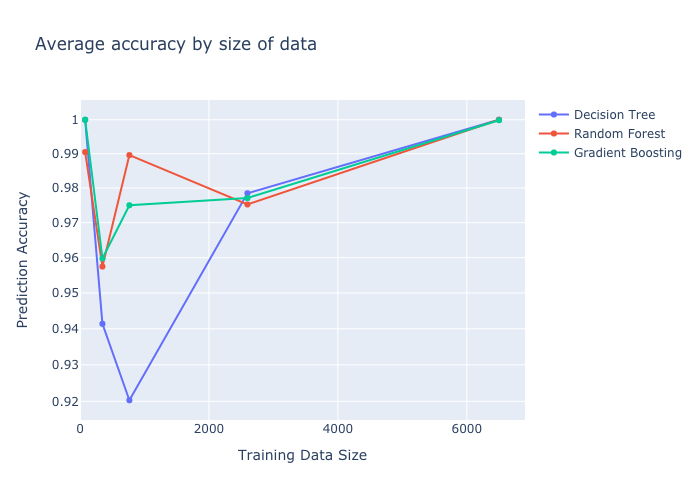
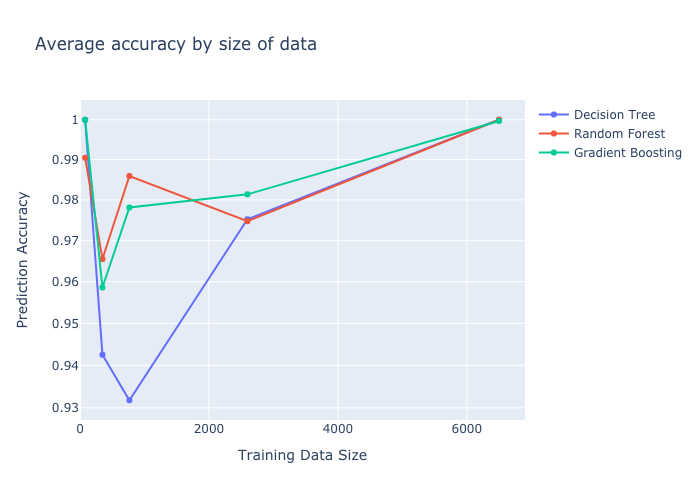
various improvements

diff --git a/source/learning/learning.py b/source/learning/learning.py
@@ -4,7 +4,7 @@ import time
 
 
 class Learning(ABC):
-    def __init__(self, data_set: file_manager.DataSet, b=False, **kwargs):
+    def __init__(self, data_set: file_manager.DataSet, b=False, percent=0.5, **kwargs):
         self.data_set = data_set
         self.b = b
         self.t = None
@@ -17,6 +17,7 @@ class Learning(ABC):
         self.size = 0
         self.FILE = "DEFAULT"
         self.NAME = "DEFAULT"
+        self.percent = percent
 
     @abstractmethod
     def build(self):
@@ -48,7 +49,7 @@ class Learning(ABC):
         print("Build time on " + self.data_set.file + " on " + str(self.n_builds) + " builds: " +
               str(self.avg_time) + "s")
         if not self.done:
-            file_manager.write_to_db(self.FILE, self.data_set.file,
+            file_manager.write_to_db(self.FILE, self.data_set.file + " " + str(self.percent),
                                      {"time": self.avg_time, "acc": self.avg_acc,
                                       "train_size": self.size,
                                       "test_size": len(self.data_set.data) - self.size})
@@ -56,7 +57,7 @@ class Learning(ABC):
     @abstractmethod
     def read_from_file(self):
         if not self.done:
-            data = file_manager.read_from_db(self.FILE, self.data_set.file)
+            data = file_manager.read_from_db(self.FILE, self.data_set.file + " " + str(self.percent))
             if data:
                 self.avg_acc = data["acc"]
                 self.avg_time = data["time"]

diff --git a/source/graphing/grapher.py b/source/graphing/grapher.py
@@ -1,5 +1,5 @@
 import plotly.graph_objects as go
-from source.utils import learning_manager
+from source.utils import learning_manager, file_manager
 
 
 def plot(algos):
@@ -43,3 +43,26 @@ def plot(algos):
 
 def plot_all():
     plot(learning_manager.algo_names.keys())
+
+
+def table(algos):
+    print("\\begin{tabular}{ll|" + ("l" * len(algos)) + "}")
+    s = "dataset & size"
+    for algo in algos:
+        s += " & " + algo
+    s += "\\\\"
+    print(s)
+    print("\\hline")
+    files = sorted(file_manager.data_sets, key=lambda a: learning_manager.discriminants[algos[0]][a].size)
+    for file in files:
+        s = file.split("/")[-1].split(".")[0] + " & " + str(learning_manager.discriminants[algos[0]][file].size)
+        for algo in algos:
+            discriminant = learning_manager.discriminants[algo][file]
+            s += " & {0:.2f}\\%".format(round(discriminant.avg_acc * 100, 2))
+        s += "\\\\"
+        print(s)
+    print("\\end{tabular}")
+
+
+def table_all():
+    table(learning_manager.algo_names.keys())

diff --git a/source/core/run.py b/source/core/run.py
@@ -24,6 +24,11 @@ def main(args):
     if args.graph and args.method:
         grapher.plot(args.method)
 
+    if args.create_table and args.all:
+        grapher.table_all()
+
+    if args.create_table and args.method:
+        grapher.table(args.method)
 
 if __name__ == "__main__":
     parser = ap.ArgumentParser()
@@ -31,6 +36,7 @@ if __name__ == "__main__":
     parser.add_argument('-i', '--input', nargs="+", required=True)
     parser.add_argument('-g', '--graph', action="store_true")
     parser.add_argument('-f', '--force-rebuild', action="store_true")
+    parser.add_argument('-t', '--create-table', action="store_true")
     parser.add_argument('-s', '--split', nargs="?", const=0.5, type=float)
 
     command_group = parser.add_mutually_exclusive_group()

diff --git a/source/learning/decision_tree.py b/source/learning/decision_tree.py
@@ -7,8 +7,8 @@ FILE = "decision_tree"
 
 
 class DecisionTree(learning.Learning):
-    def __init__(self, data_set: file_manager.DataSet, b=False, **kwargs):
-        super().__init__(data_set, b=b, **kwargs)
+    def __init__(self, data_set: file_manager.DataSet, percent=0.5, b=False, **kwargs):
+        super().__init__(data_set, percent=percent, b=b)
         self.t = tree.DecisionTreeClassifier(**kwargs)
         self.FILE = FILE
         self.NAME = NAME

diff --git a/source/learning/gradient_boosting.py b/source/learning/gradient_boosting.py
@@ -7,8 +7,8 @@ FILE = "gradient_boosting"
 
 
 class GradientBoosting(learning.Learning):
-    def __init__(self, data_set: file_manager.DataSet, b=False, **kwargs):
-        super().__init__(data_set, b=b)
+    def __init__(self, data_set: file_manager.DataSet, percent=0.5, b=False, **kwargs):
+        super().__init__(data_set, percent=percent, b=b)
         self.t = GradientBoostingClassifier(**kwargs)
         self.FILE = FILE
         self.NAME = NAME

diff --git a/source/learning/random_forest.py b/source/learning/random_forest.py
@@ -7,8 +7,8 @@ FILE = "random_forest"
 
 
 class RandomForest(learning.Learning):
-    def __init__(self, data_set: file_manager.DataSet, b=False, **kwargs):
-        super().__init__(data_set, b=b)
+    def __init__(self, data_set: file_manager.DataSet, percent=0.5, b=False, **kwargs):
+        super().__init__(data_set, percent=percent, b=b)
         self.t = RandomForestClassifier(**kwargs)
         self.FILE = FILE
         self.NAME = NAME

diff --git a/source/utils/learning_manager.py b/source/utils/learning_manager.py
@@ -27,7 +27,7 @@ def build_algorithms(algos, b=False, percent=0.5):
     for data_set in file_manager.data_sets.values():
         print(data_set.file)
         for algo in algos:
-            d = algo_names[algo](data_set, b=b, **(kwargs[algo]))
+            d = algo_names[algo](data_set, b=b, percent=percent, **(kwargs[algo]))
             discriminants[algo][data_set.file] = d
             if not b:
                 d.read_from_file()

diff --git a/source/learning/cp_tree.py b/source/learning/cp_tree.py
@@ -3,8 +3,8 @@ from source.learning import learning
 
 
 class CPTree(learning.Learning):
-    def __init__(self, data_set: file_manager.DataSet, b=False, **kwargs):
-        super().__init__(data_set, b=b)
+    def __init__(self, data_set: file_manager.DataSet, percent=0.5, b=False, **kwargs):
+        super().__init__(data_set, percent=percent, b=b)
 
     def build(self):
         pass

diff --git a/source/learning/dl8.py b/source/learning/dl8.py
@@ -3,8 +3,8 @@ from source.learning import learning
 
 
 class DL8(learning.Learning):
-    def __init__(self, data_set: file_manager.DataSet, b=False, **kwargs):
-        super().__init__(data_set, b=b)
+    def __init__(self, data_set: file_manager.DataSet, percent=0.5, b=False, **kwargs):
+        super().__init__(data_set, percent=percent, b=b)
 
     def build(self):
         pass

diff --git a/source/utils/file_manager.py b/source/utils/file_manager.py
@@ -4,7 +4,7 @@ from sklearn.model_selection import train_test_split
 import os
 import glob
 
-JSON_VERSION = 1.1
+JSON_VERSION = 1.2
 
 
 class DataSet:
